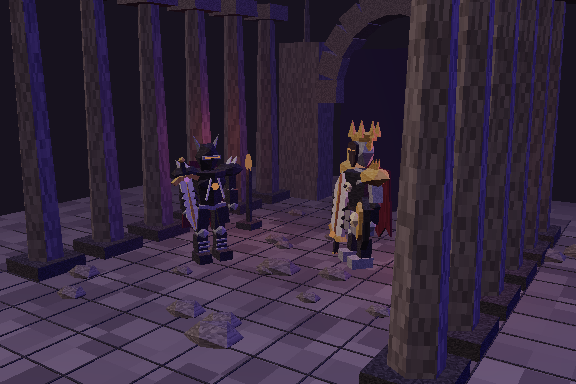
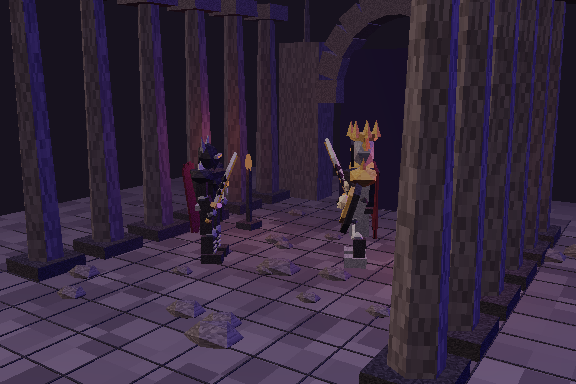
Correct weapon grips and articulated attack swings

Changed region(s): [[0.5625, 0.3125, 0.6875, 0.7188], [0.2812, 0.3438, 0.4375, 0.6875]]

diff --git a/assets/models.js b/assets/models.js
@@ -49,6 +49,18 @@ export function armor(id='iron'){
  if(id==='rags'){g.clear();cape(g,mats.cloth,.52).position.y=.9;mesh(g,new T.CylinderGeometry(.34,.4,.7,5),mats.cloth,0,.3,0);}
  return g;
 }
+// All held assets are positioned by their handle, never by the blade's mesh origin.
+export function holdWeapon(hand,id,scale=1){
+ const item=weapon(id);item.scale.setScalar(scale);item.position.y=(id==='reaper'?.35:.73)*scale;hand.add(item);hand.userData.weapon=item;return item;
+}
+function armRig(g,side,y,upper=.5,lower=.4,mat=mats.iron,skeletal=false){
+ const arm=new T.Group();arm.position.set(side*(skeletal?.4:.58),y,0);g.add(arm);
+ const elbow=new T.Group();elbow.position.set(side*.08,-upper,0);arm.add(elbow);
+ const hand=new T.Group();hand.position.set(0,-lower,.07);elbow.add(hand);
+ if(skeletal){bone(arm,[0,0,0],[side*.08,-upper,0],.075);bone(elbow,[0,0,0],[0,-lower,.07],.06);for(let i=0;i<3;i++)bone(hand,[(i-1)*.06,0,0],[(i-1)*.075,-.2,.15],.025);}
+ else{orb(arm,mat,0,0,0,.24,1.3,.7,1.1);box(arm,mat,side*.04,-upper/2,0,.19,upper,.23);orb(elbow,mats.dark,0,0,0,.12);box(elbow,mat,0,-lower/2,.04,.2,lower,.23);orb(hand,mats.iron,0,0,0,.125);}
+ arm.userData={elbow,hand};elbow.rotation.x=-.3;hand.rotation.x=.7;return arm;
+}
 function knight(kind){
  const g=new T.Group(),royal=kind==='king';
  cape(g,royal?mats.blood:mats.cloth,royal?.72:.63);
@@ -57,8 +69,6 @@ function knight(kind){
  for(const side of [-1,1]){
   orb(g,royal?mats.gold:mats.iron,side*.58,2.08,0,.28,1.4,.75,1.2);
   for(let i=0;i<3;i++)spike(g,royal?mats.gold:mats.edge,side*(.5+i*.12),2.3,.025,.34+i*.07,side*-.5);
-  box(g,mats.iron,side*.65,1.78,0,.19,.46,.23,side*.18);orb(g,mats.dark,side*.69,1.48,.015,.135);
-  box(g,mats.dark,side*.7,1.28,.08,.19,.35,.21,side*-.1);orb(g,mats.iron,side*.72,1.08,.13,.135);
   box(g,mats.iron,side*.22,.99,0,.23,.51,.29,side*-.07);orb(g,mats.edge,side*.24,.72,.09,.15);
   box(g,mats.dark,side*.26,.44,.04,.23,.46,.25);box(g,mats.iron,side*.27,.15,.13,.3,.22,.49);
   slab(g,[[0,0],[side*.26,-.06],[side*.31,-.5],[0,-.43]],.07,mats.iron,side*.035,1.24,.24);
@@ -67,28 +77,27 @@ function knight(kind){
  for(const side of [-1,1]){box(g,mats.eye,side*.095,2.56,.278,.11,.025,.02,side*.13);spike(g,royal?mats.gold:mats.edge,side*.27,2.82,-.04,.5,side*-.45);}
  if(royal){mesh(g,new T.CylinderGeometry(.31,.28,.15,8,true),mats.gold,0,2.84,0);for(let i=0;i<7;i++){const a=i/7*Math.PI*2;spike(g,mats.gold,Math.sin(a)*.28,3.02,Math.cos(a)*.28,.35);}}
  skull(g,0,1.79,.31,.55);
- const sword=weapon(royal?'god':'thorn');sword.scale.setScalar(royal?.95:.8);sword.position.set(-.78,.87,.22);sword.rotation.z=royal?-.22:.12;g.add(sword);
- const shield=new T.Group();slab(shield,[[0,.49],[-.34,.31],[-.29,-.34],[0,-.62],[.29,-.34],[.34,.31]],.13,mats.dark);slab(shield,[[0,.38],[-.21,.23],[-.18,-.26],[0,-.43],[.18,-.26],[.21,.23]],.14,royal?mats.gold:mats.iron,0,0,.07);skull(shield,0,.02,.19,.63);shield.position.set(.81,1.23,.31);shield.rotation.y=-.25;g.add(shield);
+ const arms=[armRig(g,-1,2.08),armRig(g,1,2.08)];g.userData.arms=arms;
+ holdWeapon(arms[0].userData.hand,royal?'god':'thorn',royal?.82:.72);
+ const shield=new T.Group();slab(shield,[[0,.49],[-.34,.31],[-.29,-.34],[0,-.62],[.29,-.34],[.34,.31]],.13,mats.dark);slab(shield,[[0,.38],[-.21,.23],[-.18,-.26],[0,-.43],[.18,-.26],[.21,.23]],.14,royal?mats.gold:mats.iron,0,0,.07);skull(shield,0,.02,.19,.63);shield.position.set(.08,-.14,.2);arms[1].userData.elbow.add(shield);
  return g;
 }
 function wretch(){
  const g=new T.Group();cape(g,mats.cloth,.47).position.y=1.6;
  for(const side of [-1,1]){
   bone(g,[side*.18,.99,0],[side*.32,.56,.11],.1);bone(g,[side*.32,.56,.11],[side*.24,.14,.2],.075);box(g,mats.bone,side*.24,.11,.27,.16,.15,.42);
-  bone(g,[side*.4,1.71,.06],[side*.61,1.13,.14],.09);bone(g,[side*.61,1.13,.14],[side*.74,.7,.39],.065);
-  for(let i=0;i<3;i++)bone(g,[side*.74+(i-1)*.06,.73,.41],[side*.78+(i-1)*.085,.45,.61],.025);
   for(let i=0;i<5;i++){const rib=mesh(g,new T.TorusGeometry(.25+i*.018,.031,3,8,Math.PI*.78),mats.bone,side*.06,1.55-i*.095,.025,0,side*Math.PI/2,Math.PI*.1);rib.scale.y=.75;}
  }
  bone(g,[0,.9,0],[0,1.71,-.08],.065);orb(g,mats.bone,0,.95,0,.22,1.4,.65,.6);skull(g,0,1.9,.22,1.2);
  for(const side of [-1,1])orb(g,mats.cyan,side*.085,1.924,.424,.038);for(let i=0;i<5;i++)spike(g,mats.bone,0,1.5+i*.075,-.21,.23,Math.PI*.52);
- g.rotation.x=.08;return g;
+ g.userData.arms=[armRig(g,-1,1.71,.58,.5,mats.bone,true),armRig(g,1,1.71,.58,.5,mats.bone,true)];g.rotation.x=.08;return g;
 }
 function keeper(){
  const g=new T.Group();mesh(g,new T.CylinderGeometry(.23,.72,1.8,7),mats.cloth,0,1.07,0);cape(g,mats.dark,.62);
  orb(g,mats.dark,0,2.19,0,.4,1,1.2,.85);orb(g,mats.dark,0,2.17,.28,.26);box(g,mats.eye,-.085,2.19,.52,.04,.025,.02);box(g,mats.eye,.085,2.19,.52,.04,.025,.02);
- for(const side of [-1,1]){mesh(g,new T.CylinderGeometry(.18,.26,.75,5),mats.cloth,side*.43,1.67,0,0,0,side*.42);skull(g,side*.46,1.15,.13,.6);}
+ const arms=[armRig(g,-1,1.85,.4,.35,mats.cloth),armRig(g,1,1.85,.4,.35,mats.cloth)];g.userData.arms=arms;
  for(let i=0;i<8;i++){const a=i*.45;orb(g,mats.gold,Math.sin(a)*.31,1.87-i*.035,.3,.036);}
- box(g,mats.dark,-.69,1.37,.09,.075,2.7,.075);slab(g,[[-.08,0],[.13,.12],[.43,.08],[.45,0],[.15,.04]],.08,mats.gold,-.7,2.72,.1);
+ const staff=new T.Group();box(staff,mats.dark,0,.2,0,.075,2.7,.075);slab(staff,[[-.08,0],[.13,.12],[.43,.08],[.45,0],[.15,.04]],.08,mats.gold,0,1.55,0);arms[0].userData.hand.add(staff);arms[0].userData.hand.userData.weapon=staff;
  mesh(g,new T.CylinderGeometry(.15,.38,.48,8,true),mats.gold,-.33,2.36,.09);mesh(g,new T.TorusGeometry(.36,.035,4,8),mats.gold,-.33,2.12,.09,Math.PI/2);orb(g,mats.dark,-.33,2.14,.09,.08);return g;
 }
 function wing(){
@@ -98,7 +107,7 @@ function wing(){
   bone(g,[side*.24,1.61,-.18],[side*.73,2.36,-.18]);bone(g,[side*.73,2.36,-.18],[side*1.8,2.85,-.18],.05);bone(g,[side*.73,2.36,-.18],[side*1.54,1.83,-.18],.04);bone(g,[side*.73,2.36,-.18],[side*1.08,1.32,-.18],.035);
   spike(g,mats.dark,side*.19,2.32,.12,.62,side*-.5);
  }
- const scythe=weapon('reaper');scythe.position.set(-.72,.84,.5);scythe.scale.setScalar(.7);scythe.rotation.z=.17;g.add(scythe);return g;
+ holdWeapon(g.userData.arms[0].userData.hand,'reaper',.7);return g;
 }
 export function monster(kind){const g=kind==='wretch'?wretch():kind==='keeper'?keeper():kind==='wing'?wing():knight(kind);g.userData.kind=kind;return g;}
 export function cathedral(){

diff --git a/panel.js b/panel.js
@@ -28,7 +28,7 @@ function toast(text){const el=document.querySelector('#toast');el.textContent=te
 const btn=(action,label,cls='',disabled=false,extra='')=>`<button class="${cls}" data-action="${action}" ${disabled?'disabled':''} ${extra}>${label}</button>`;
 function bar(value,max,cls=''){return `<div class="bar ${cls}"><i style="width:${Math.max(0,Math.min(100,value/max*100))}%"></i></div>`;}
 function header(){return `<header class="topbar"><div class="breadcrumb">THE HOLLOW <span>/</span> ${tab==='hunt'?'YOUR PILGRIMAGE':tab==='shop'?'THE BLACK FORGE':tab==='skills'?'FORBIDDEN ARTS':tab==='inventory'?'THE RELIQUARY':'THE CHRONICLE'}</div><div class="wallet">${icon('coin')} <strong>${state.coins.toLocaleString()}</strong><span>COINS</span></div></header>`;}
-function nav(){return `<aside class="sidebar"><a class="brand" href="panel.html">${icon('rune')}<div>Dreadwake<small>THE HOLLOW PILGRIMAGE</small></div></a><div class="sidebar-rule"></div><div class="section-label">YOUR JOURNEY</div><nav>${[['hunt','sword','The Hunt'],['shop','armor','Black Forge'],['inventory','book','Inventory'],['skills','rune','Forbidden Arts'],['journal','book','Chronicle']].map(([id,i,label])=>`<button class="nav-item ${tab===id?'active':''}" data-tab="${id}">${icon(i)}<span>${label}</span>${id==='skills'?`<b>${state.points}</b>`:''}</button>`).join('')}</nav><div class="pilgrim"><div class="portrait">${icon('skull')}</div><span>THE UNBURNT<small>Level ${state.level} · Hollow pilgrim</small></span></div><div class="sidebar-bottom"><span class="online-dot"></span> YOUR PROGRESS IS SAVED<p>“What is dead may yet<br>learn to hunger.”</p><span class="version">DREADWAKE / v1.6</span></div></aside>`;}
+function nav(){return `<aside class="sidebar"><a class="brand" href="panel.html">${icon('rune')}<div>Dreadwake<small>THE HOLLOW PILGRIMAGE</small></div></a><div class="sidebar-rule"></div><div class="section-label">YOUR JOURNEY</div><nav>${[['hunt','sword','The Hunt'],['shop','armor','Black Forge'],['inventory','book','Inventory'],['skills','rune','Forbidden Arts'],['journal','book','Chronicle']].map(([id,i,label])=>`<button class="nav-item ${tab===id?'active':''}" data-tab="${id}">${icon(i)}<span>${label}</span>${id==='skills'?`<b>${state.points}</b>`:''}</button>`).join('')}</nav><div class="pilgrim"><div class="portrait">${icon('skull')}</div><span>THE UNBURNT<small>Level ${state.level} · Hollow pilgrim</small></span></div><div class="sidebar-bottom"><span class="online-dot"></span> YOUR PROGRESS IS SAVED<p>“What is dead may yet<br>learn to hunger.”</p><span class="version">DREADWAKE / v1.6.1</span></div></aside>`;}
 function player(){const st=stats(state);return `<section class="player-card"><div class="section-label">THE UNBURNT <span>LVL ${state.level}</span></div><div class="stat-line"><span>${icon('drop')} Vitality</span><b>${state.hp} <em>/ ${st.hp}</em></b></div>${bar(state.hp,st.hp,'health')}<div class="stat-line"><span>${icon('flame')} Focus</span><b>${state.focus} <em>/ ${st.focus}</em></b></div>${bar(state.focus,st.focus,'focus')}<div class="mini-stats"><span>${icon('sword')} <b>${st.attack}</b> ATK</span><span>${icon('shield')} <b>${st.defense}</b> DEF</span></div><div class="xp-row">NEXT LEVEL <span>${state.xp} / ${xpNeeded(state)} XP</span></div>${bar(state.xp,xpNeeded(state),'xp')}</section>`;}
 function typing(){const active=Date.now()-state.lastType<2500;const combo=Date.now()<hellscriptUntil?100:active?state.combo:0;return `<section class="hex-card hellscript-card ${Date.now()<hellscriptUntil?'ignited':''}"><div class="section-label">THE INFERNAL SEAL <span>HELLSCRIPT</span></div><div class="hellscript-heading">${globalThis.DreadwakeHellscript}<div><h2>Hellscript</h2><small>YOUR WORDS. HELL’S FIRE.</small></div></div><h3>Write. Ignite. Unleash.</h3><p>Feed the infernal seal with your keystrokes. Keep the rhythm. At 100, unleash Hellscript.</p><div class="key-meter">${Array.from({length:20},(_,i)=>`<i class="${i<Math.floor(combo/5)?'lit':''}"></i>`).join('')}</div><div class="hex-count"><span><b>${combo}</b> / 100</span><span>+35 COINS · +${8+(state.skills.echo||0)*2} FOCUS</span></div><div class="hex-foot">${icon('lock')} Your words stay yours. Only key counts are sent.</div></section>`;}
 function equipment(){return `<section class="equipped-card"><div class="section-label">EQUIPPED ${btn('tab:inventory','MANAGE '+icon('arrow'),'text-btn')}</div>${[state.weapon,state.armor].map(id=>{const g=GEAR.find(x=>x.id===id);return `<div class="equipment-row"><div class="item-icon ${g.rarity.toLowerCase()}">${gearArt(g.id,g.name)}</div><div><strong>${g.name}</strong><small>${g.slot.toUpperCase()} <span>+${g.power} ${g.slot==='weapon'?'ATK':'DEF'}</span></small></div></div>`;}).join('')}${state.equippedExotics.length?`<div class="equipped-exotics"><div class="section-label">${state.equippedExotics.length} EXOTICS ACTIVE · NO LIMIT</div><div class="exotic-mini-grid">${state.equippedExotics.map(id=>{const e=EXOTICS.find(e=>e.id===id);return `<button data-action="tab:inventory" title="${e.name}: ${e.effect}" aria-label="Manage ${e.name}">${gearArt(e.id,e.name)}</button>`;}).join('')}</div>${hasExotic(state,'typewriter')?`<small>FINAL DRAFT · ${state.exoticResources.ink}/5 INK</small>`:''}${hasExotic(state,'receipts')?`<small>RECEIPTS · ${state.exoticResources.receipts}/25 CLICKS</small>`:''}</div>`:''}</section>`;}

diff --git a/assets/battle-animation.js b/assets/battle-animation.js
@@ -4,6 +4,7 @@ const slashMoves=['attack','rend','feast','riposte','rage'];
 export const HERO_POS=new T.Vector3(-1.23,0,.65),ENEMY_POS=new T.Vector3(1.12,0,-.59);
 const wave=(t,a,b)=>t<a||t>b?0:Math.sin((t-a)/(b-a)*Math.PI);
 export function rigMonster(model){
+ if(model.userData.arms)return model;
  // Pivot existing original mesh pieces without changing their resting silhouette.
  const arms=[];model.updateMatrixWorld(true);
  for(const side of [-1,1]){
@@ -12,6 +13,19 @@ export function rigMonster(model){
   arms.push(pivot);
  }
  model.userData.arms=arms;return model;
+}
+function resetArm(arm){
+ arm.rotation.set(0,0,0);if(arm.userData.elbow)arm.userData.elbow.rotation.set(-.3,0,0);if(arm.userData.hand)arm.userData.hand.rotation.set(.7,0,0);
+}
+const smooth=t=>{t=Math.max(0,Math.min(1,t));return t*t*(3-2*t);};
+export function swingWeapon(arm,time,start=.06,end=.8,heavy=false){
+ if(!arm.userData.elbow||time<start||time>end)return;
+ const p=(time-start)/(end-start),ready=smooth(p/.34),strike=smooth((p-.34)/.24),recover=smooth((p-.58)/.42),weight=1-recover;
+ arm.rotation.x=(-2.2*ready+1.05*strike)*weight;
+ arm.rotation.z=(-.25*ready+.55*strike)*weight;
+ arm.userData.elbow.rotation.x=-.3+(-.5*ready+.6*strike)*weight;
+ arm.userData.hand.rotation.x=.7+(.9*ready+1.1*strike)*weight;
+ arm.userData.hand.rotation.z=(heavy?-.25:-.12)*ready*weight;
 }
 export class BattleAnimation{
  constructor(world){this.world=world;this.fx=null;this.visuals=new T.Group();this.visuals.name='Combat spell effects';world.add(this.visuals);this.nodes=[];}
@@ -60,8 +74,8 @@ export class BattleAnimation{
  update(now,hero,enemy,reduced=false){
   if(!hero||!enemy)return false;
   const t=this.fx?(now-this.startTime)/1000:0,fx=this.fx;
-  hero.position.copy(HERO_POS);enemy.position.copy(ENEMY_POS);hero.rotation.set(0,1.12,0);enemy.rotation.set(0,-.7,0);for(const arm of enemy.userData.arms||[])arm.rotation.set(0,0,0);
-  const rig=hero.userData;rig.body.position.y=1.15;rig.body.rotation.set(0,0,0);rig.swordArm.rotation.set(0,0,0);rig.castArm.rotation.set(0,0,0);rig.cape.rotation.x=0;
+  hero.position.copy(HERO_POS);enemy.position.copy(ENEMY_POS);hero.rotation.set(0,Math.atan2(ENEMY_POS.x-HERO_POS.x,ENEMY_POS.z-HERO_POS.z),0);enemy.rotation.set(0,Math.atan2(HERO_POS.x-ENEMY_POS.x,HERO_POS.z-ENEMY_POS.z),0);for(const arm of enemy.userData.arms||[])resetArm(arm);
+  const rig=hero.userData;rig.body.position.y=1.15;rig.body.rotation.set(0,0,0);resetArm(rig.swordArm);resetArm(rig.castArm);rig.cape.rotation.x=0;
   if(!reduced){
    const breath=Math.sin(now*.0018);rig.body.position.y=1.15+breath*.018;rig.cape.rotation.x=.07+Math.sin(now*.002)*.04;enemy.position.y=Math.sin(now*.0015)*.018;
   }
@@ -69,13 +83,17 @@ export class BattleAnimation{
   if(t>1.9){this.clear();return false;}
   if(!reduced){
    const lunge=wave(t,.06,.8),swing=wave(t,.15,.65),retaliate=fx.enemyAttack?wave(t,.85,1.55):0;
-   if(slashMoves.includes(fx.move)){hero.position.addScaledVector(ENEMY_POS.clone().sub(HERO_POS),lunge*.28);rig.swordArm.rotation.x=-swing*1.75;rig.swordArm.rotation.z=-swing*.9;rig.body.rotation.y=-swing*.45;rig.cape.rotation.x+=lunge*.35;}
+   if(slashMoves.includes(fx.move)){hero.position.addScaledVector(ENEMY_POS.clone().sub(HERO_POS),lunge*.28);swingWeapon(rig.swordArm,t,.06,.8,fx.move==='rage');rig.body.rotation.y=-swing*.45;rig.cape.rotation.x+=lunge*.35;}
    else{rig.castArm.rotation.x=-wave(t,.08,.85)*1.6;rig.body.rotation.x=-wave(t,.08,.85)*.07;}
-   if(fx.move==='guard'||fx.move==='bastion')rig.swordArm.rotation.x=-wave(t,.15,1.6)*.65;
+   if(fx.move==='guard'||fx.move==='bastion'){const brace=wave(t,.15,1.6);rig.swordArm.rotation.x=-brace*.9;rig.swordArm.userData.elbow.rotation.x=-.3-brace*.5;rig.swordArm.userData.hand.rotation.x=.7+brace*.4;}
    const hit=wave(t,.4,.74);if(fx.events.some(e=>e.amount>0&&['damage','exoticDamage','bleed','burn'].includes(e.type))){enemy.rotation.z=-hit*.18;enemy.position.addScaledVector(ENEMY_POS.clone().sub(HERO_POS),hit*.055);}
    enemy.position.addScaledVector(HERO_POS.clone().sub(ENEMY_POS),retaliate*(fx.enemyAttack==='heavy'?.3:.19));enemy.rotation.x=retaliate*(fx.enemyKind==='wing'?.5:.22);
-   for(const [i,arm]of (enemy.userData.arms||[]).entries()){arm.rotation.x=-retaliate*(fx.enemyKind==='keeper'?1.4:1.1);arm.rotation.z=retaliate*(i?-.5:.5);}
+   for(const [i,arm]of (enemy.userData.arms||[]).entries()){
+    if(fx.enemyAttack&&arm.userData.hand?.userData.weapon&&fx.enemyKind!=='keeper')swingWeapon(arm,t,.85,1.55,fx.enemyAttack==='heavy');
+    else{arm.rotation.x=-retaliate*(fx.enemyKind==='keeper'?1.1:1.4);arm.rotation.z=retaliate*(i?-.25:.25);}
+   }
    if(fx.enemyKind==='wing')enemy.position.y+=retaliate*.38;
+   if(fx.events.some(e=>e.type==='counter'))swingWeapon(rig.swordArm,t,1.15,1.8);
    if(fx.events.some(e=>e.type==='hurt'))rig.body.rotation.z=wave(t,1.1,1.5)*.16;
    if(fx.events.some(e=>e.type==='dodge'))hero.position.z+=wave(t,.95,1.5)*.5;
    if(fx.victory){const collapse=Math.max(0,Math.min(1,(t-(fx.enemyAttack?1.25:.65))/.6));enemy.rotation.z=-collapse*1.35;enemy.position.y-=collapse*.4;}

diff --git a/assets/renderer.js b/assets/renderer.js
@@ -35,7 +35,7 @@ function draw(time,force=false){
 function loop(time=0){frame=0;if(document.hidden||!canvas?.isConnected||failed)return;draw(time,reduced.matches);if(!reduced.matches||animation?.fx)frame=requestAnimationFrame(loop);}
 reduced.addEventListener('change',()=>{cancelAnimationFrame(frame);frame=0;loop(performance.now());});
 document.addEventListener('visibilitychange',()=>{if(!document.hidden&&!frame)loop();});
-function replaceMonster(kind){if(actor){arena.remove(actor);dispose(actor);}actor=rigMonster(monster(kind));actor.scale.multiplyScalar(.78);actor.name='Enemy '+kind;actor.position.copy(ENEMY_POS);actor.rotation.y=-.7;arena.add(actor);current=kind;}
+function replaceMonster(kind){if(actor){arena.remove(actor);dispose(actor);}actor=rigMonster(monster(kind));actor.scale.multiplyScalar(.78);actor.name='Enemy '+kind;actor.position.copy(ENEMY_POS);actor.rotation.y=Math.atan2(HERO_POS.x-ENEMY_POS.x,HERO_POS.z-ENEMY_POS.z);arena.add(actor);current=kind;}
 export function mount3D(root=document){
  const host=root.querySelector('[data-monster]');
  if(!host){cancelAnimationFrame(frame);frame=0;return;}
@@ -65,7 +65,7 @@ export function assetRender(kind,id,width=384,height=256){
   model=kind==='skill'?talent(id):EXOTICS.some(e=>e.id===id)?exoticModel(id):['rust','fang','reaper','thorn','god'].includes(id)?weapon(id):armor(id);model.rotation.set(.12,-.52,-.15);s.add(model);
   const isWeapon=kind==='gear'&&['rust','fang','reaper','thorn','god','mouth','probate','echoBlade','meteor'].includes(id);c=new T.PerspectiveCamera(33,width/height,.1,30);c.position.set(0,.05,kind==='skill'?4:isWeapon?5:4.3);c.lookAt(isWeapon&&id==='reaper'?.3:0,0,0);
  }else{
-  s.background=new T.Color('#17121e');s.fog=new T.FogExp2('#21182b',.065);s.add(cathedral());model=monster(id);model.scale.multiplyScalar(.78);model.position.copy(ENEMY_POS);model.rotation.y=-.7;s.add(model);const h=hero();h.scale.setScalar(.82);h.position.copy(HERO_POS);h.rotation.y=1.12;s.add(h);c=new T.PerspectiveCamera(38,width/height,.1,40);c.position.set(...cameraPosition.map(v=>v*1.2));c.lookAt(0,1.25,0);
+  s.background=new T.Color('#17121e');s.fog=new T.FogExp2('#21182b',.065);s.add(cathedral());model=monster(id);model.scale.multiplyScalar(.78);model.position.copy(ENEMY_POS);model.rotation.y=Math.atan2(HERO_POS.x-ENEMY_POS.x,HERO_POS.z-ENEMY_POS.z);s.add(model);const h=hero();h.scale.setScalar(.82);h.position.copy(HERO_POS);h.rotation.y=Math.atan2(ENEMY_POS.x-HERO_POS.x,ENEMY_POS.z-HERO_POS.z);s.add(h);c=new T.PerspectiveCamera(38,width/height,.1,40);c.position.set(...cameraPosition.map(v=>v*1.2));c.lookAt(0,1.25,0);
  }
  r.render(s,c);const data=r.domElement.toDataURL('image/png');dispose(model);r.dispose();r.forceContextLoss();return data;
 }

diff --git a/assets/hero.js b/assets/hero.js
@@ -1,5 +1,5 @@
 import * as T from './vendor/three.module.js';
-import {mats,mesh,weapon} from './models.js';
+import {mats,mesh,holdWeapon} from './models.js';
 // Original articulated low-poly hero: obsidian plate, crimson cape and a silver executioner's blade.
 export function hero(){
  const root=new T.Group();root.name='The Unburnt';
@@ -31,9 +31,11 @@ export function hero(){
   const shoulder=facet(arm,.255,side*.06,0,0);shoulder.scale.set(1.3,.65,1);
   for(let i=0;i<2;i++)mesh(arm,new T.ConeGeometry(.075,.26,4),mats.edge,side*(.08+i*.13),.2,0,0,0,-side*.5);
   plate(arm,.17,.36,.2,side*.09,-.24,0);facet(arm,.12,side*.1,-.46,.02,mats.iron);
-  plate(arm,.2,.31,.23,side*.09,-.58,.04);facet(arm,.12,side*.09,-.79,.09,mats.iron);
+  const elbow=new T.Group();elbow.position.set(side*.09,-.46,.02);arm.add(elbow);
+  plate(elbow,.2,.31,.23,0,-.15,.02);const hand=new T.Group();hand.position.set(0,-.33,.07);elbow.add(hand);facet(hand,.12,0,0,0,mats.iron);
+  arm.userData={elbow,hand};elbow.rotation.x=-.3;hand.rotation.x=.7;
  }
- const blade=weapon('thorn');blade.scale.setScalar(.68);blade.position.set(-.09,-.37,.17);blade.rotation.z=Math.PI+.16;arms[0].add(blade);
+ const blade=holdWeapon(arms[0].userData.hand,'thorn',.68);
  root.userData={...root.userData,body,head,cape,swordArm:arms[0],castArm:arms[1],blade};
  return root;
 }

diff --git a/README.md b/README.md
@@ -92,7 +92,7 @@ These scripts use `/usr/bin/chromium` by default; set `DREADWAKE_CHROMIUM` to an
 
 ## Updating an existing installation
 
-Download and extract the updated GitHub ZIP. Replace your old extension files with the new files, retaining the same unpacked directory. Click **Reload** on Dreadwake's card in the browser's extension management page, close and reopen its side panel, then refresh the webpages you want to reward. Existing local progression is preserved; no save reset is required. The version displayed in extension settings should be **1.6.0**.
+Download and extract the updated GitHub ZIP. Replace your old extension files with the new files, retaining the same unpacked directory. Click **Reload** on Dreadwake's card in the browser's extension management page, close and reopen its side panel, then refresh the webpages you want to reward. Existing local progression is preserved; no save reset is required. The version displayed in extension settings should be **1.6.1**.
 
 ## Build examples
 
@@ -162,3 +162,7 @@ Accepted turns animate the hero first, then the monster when the rules actually 
 Animations are visual and never resolve extra turns or grant rewards. A newer turn replaces unfinished effects. Temporary geometry and materials are disposed after the sequence. Navigation and hidden documents pause rendering. Reduced motion keeps characters still and displays static spell indicators. All five bundled fallback images now show the hero alongside the monster; WebGL fallback remains static. Regenerate these with `node scripts/bake-assets.cjs --monsters`.
 
 `smoke-combat-3d.cjs` checks all fourteen base/active moves against five monster rigs, visible effects, attack poses, retaliation, cleanup, unchanged combat events, reduced motion and real panel turns at a narrow viewport.
+
+## Weapon grip and swing correction
+
+Swords attach at their handle centers to actual hand joints. The hero, knight and king now have articulated shoulders, elbows and wrists; the king and knight carry their shields on their forearms. The revenant grips its scythe shaft, and the Bellkeeper grips a single connected staff. All combatants face one another. Weapon attacks now wind up, extend through the target and recover instead of rotating a weapon offset from the hand. Counterattacks reuse the same articulated swing. Reduced motion preserves the resting grip, and defeated monsters do not play a retaliation. Grip regression checks sample the weapon-to-hand alignment throughout the attack sequence. The five static combat renders were regenerated with corrected grips.
